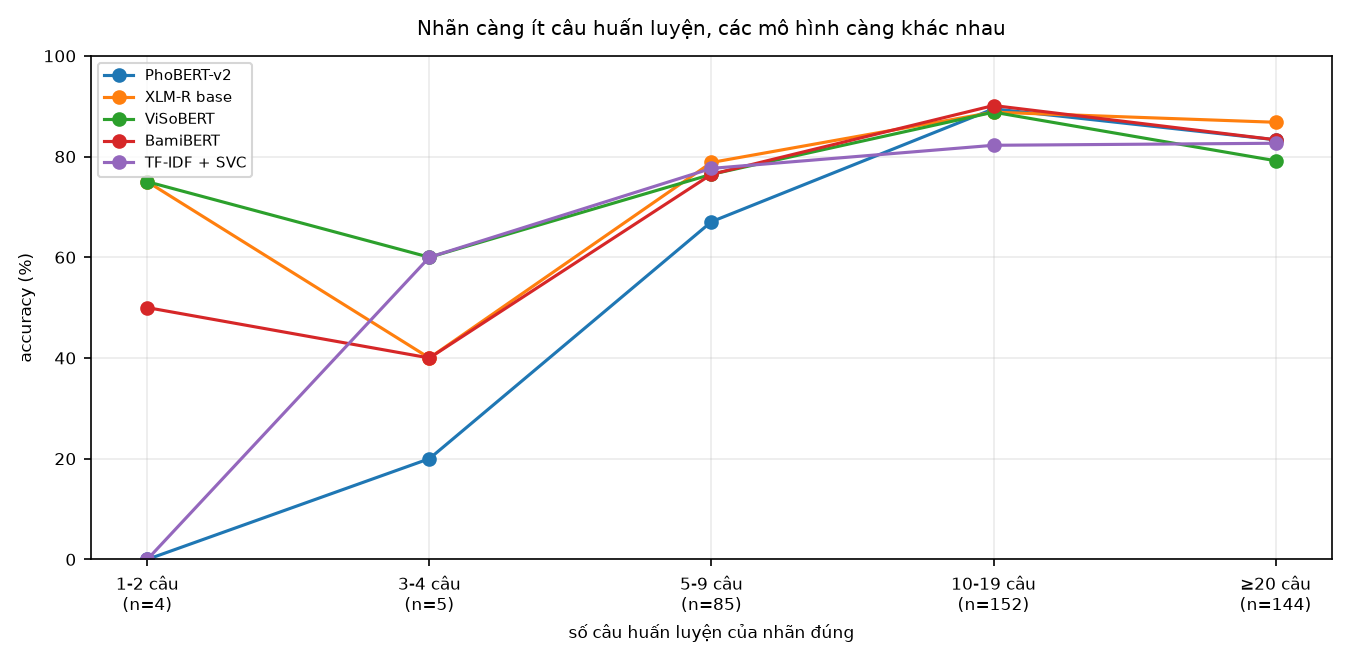
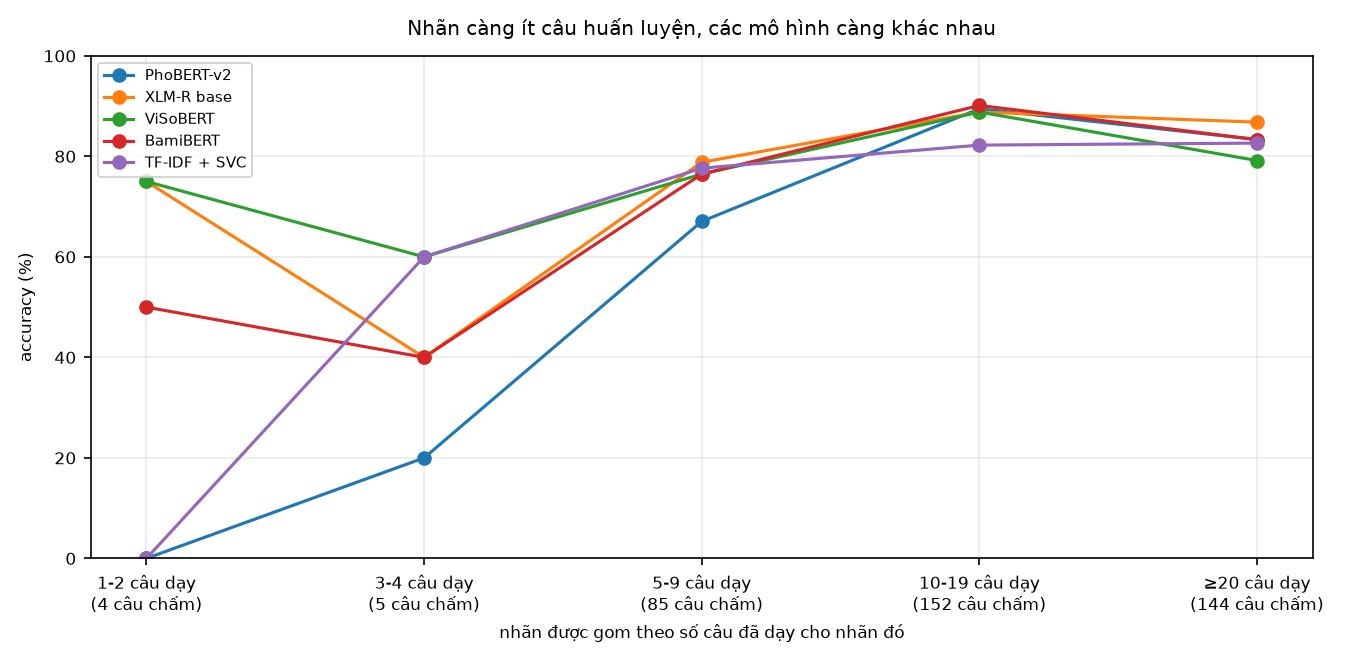
Say what a number means where the number appears
The grading section opened with two tables of definitions and only then showed
results, so a reader had to memorise five grade names and three counts before any
of them were used. Each definition now sits in the row it describes: the line that
reports 78.7% also says what being counted as correct required.

The label-frequency chart labelled its axis "1-2 câu (n=4)". Both halves count
questions, but the first counts questions used to teach a label and the second
counts questions used to score it, and nothing said so. The axis now spells out
both, and the table carries a row giving the second number.

Several paragraphs read like release notes. They now say what the reader should
take away first and give the arithmetic second: that the two leading models cannot
be separated by a table whose spread is smaller than the spread between two
training runs, that the leftmost columns rest on nine questions, and that the
simple baseline beats every neural model on mistyped questions.

En dashes joined the em dashes in becoming hyphens.

diff --git a/src/ontchatbot/research/classifier_report.py b/src/ontchatbot/research/classifier_report.py
@@ -225,8 +225,11 @@ def figures(out_dir: Path, split: str = "test") -> None:
     # Ghi kèm số câu test của từng nhóm: nhóm nhỏ làm đường gãy mạnh, người đọc
     # cần thấy ngay là chênh lệch ở đó dựa trên rất ít câu.
     sizes = next(iter(payload["by_training_count"].values()))
-    ax.set_xticks(xs, [f"{b} câu\n(n={sizes[b][1]})" for b in BUCKETS])
-    ax.set_xlabel("số câu huấn luyện của nhãn đúng")
+    # Trục ngang gom nhãn theo số câu đã DẠY cho nhãn đó; con số trong ngoặc là số
+    # câu CHẤM rơi vào nhóm. Hai thứ đều đếm bằng câu nên phải nói rõ từng cái, nếu
+    # không người đọc tưởng chúng là một.
+    ax.set_xticks(xs, [f"{b} câu dạy\n({sizes[b][1]} câu chấm)" for b in BUCKETS])
+    ax.set_xlabel("nhãn được gom theo số câu đã dạy cho nhãn đó")
     ax.set_ylabel("accuracy (%)")
     ax.set_ylim(0, 100)
     ax.set_title("Nhãn càng ít câu huấn luyện, các mô hình càng khác nhau", pad=10)

diff --git a/README.md b/README.md
@@ -110,7 +110,7 @@ dẫn và đường dẫn đối chiếu.
 | Văn bản gốc đã số hoá | 16 |
 
 Phần chênh lệch 1.354 bộ ba phát sinh do đồ thị khi vận hành bổ sung cặp trích
-dẫn–đường dẫn cho các mục trả lời được.
+dẫn-đường dẫn cho các mục trả lời được.
 
 Nội dung được bóc tách từ 16 văn bản chính thức: sáu quyết định của Hiệu trưởng,
 gồm **Quyết định 1052**, **Quyết định 317**, 626, 729, 753 và 1965; ba quy chế
@@ -233,7 +233,7 @@ Bốn phong cách câu hỏi biểu diễn biến thiên bề mặt của cùng 
 ### 6.1 Năm mô hình đem so
 
 Bốn encoder được fine-tune, tức tiếp tục huấn luyện trên bài toán phân loại hiện
-tại. Baseline TF-IDF + LinearSVC kết hợp TF-IDF (*term frequency–inverse document
+tại. Baseline TF-IDF + LinearSVC kết hợp TF-IDF (*term frequency-inverse document
 frequency*, trọng số phản ánh mức đặc trưng của n-gram) với bộ phân loại tuyến
 tính biên lớn LinearSVC. Baseline không dùng biểu diễn tiền huấn luyện và khai
 thác n-gram ký tự cùng n-gram từ; đặc trưng ký tự phù hợp với câu thiếu dấu và
@@ -302,18 +302,19 @@ Kết quả trên 390 câu `test` với 344 nhãn:
 | PhoBERT-v2 | 80,5% | 74,4% | 79,5% | 75,6% | 78,5% |
 | TF-IDF + LinearSVC | 80,3% | 74,4% | 79,5% | 75,6% | 78,3% |
 
-XLM-R cao hơn baseline 4,8 điểm accuracy và 4,1 điểm F1 macro. Phân tích theo
-tần suất nhãn cho thấy phần lớn chênh lệch xuất hiện ở các nhãn hiếm.
+Bốn mô hình học sâu đều vượt mốc so sánh, và XLM-R hơn mốc đó 4,8 điểm. Phần lớn
+khoảng cách nằm ở những nhãn ít câu dạy, xem ngay mục dưới.
 
-**Không mô hình nào dẫn đầu cả năm cột.** XLM-R cao nhất ở accuracy và F1 weighted;
-BamiBERT cao nhất ở ba chỉ số trung bình theo nhãn. Accuracy đếm theo câu nên nhãn
-nhiều mẫu chiếm ưu thế, còn trung bình theo nhãn cho mỗi nhãn một phiếu bằng nhau;
-hai mô hình này vì thế mạnh ở hai phía khác nhau của phân bố nhãn.
+**Nhưng không mô hình nào dẫn đầu cả năm cột.** XLM-R hơn ở hai cột đầu và cuối,
+BamiBERT hơn ở ba cột giữa. Chuyện này không mâu thuẫn: accuracy đếm theo từng câu
+hỏi nên nhãn nào nhiều câu thì có tiếng nói lớn hơn, còn ba cột giữa lấy trung bình
+theo nhãn nên nhãn nào cũng một phiếu như nhau. Hai mô hình mạnh ở hai phía khác
+nhau của cùng một bộ dữ liệu.
 
-Chênh lệch giữa chúng - lớn nhất 1,5 điểm - **nhỏ hơn mức dao động giữa hai lượt
-huấn luyện đo được ở mục 10**, nên bảng này không đủ để kết luận mô hình nào tốt
-hơn. XLM-R được chọn để triển khai; phép đo không chứng minh lựa chọn đó tốt hơn
-BamiBERT một cách chắc chắn.
+Khoảng cách lớn nhất giữa chúng là 1,5 điểm, mà **huấn luyện lại cùng một mô hình
+trên gần như cùng dữ liệu đã làm điểm xê dịch tới 1,8 điểm** (mục 10). Nói cách
+khác, bảng này chưa đủ để nói mô hình nào hơn mô hình nào. XLM-R là mô hình được
+đem triển khai, nhưng đó là một lựa chọn, không phải một kết luận từ số liệu.
 
 Tách theo phạm vi câu hỏi:
 
@@ -325,38 +326,50 @@ Tách theo phạm vi câu hỏi:
 | PhoBERT-v2 | 81,8% <br><sub>279/341</sub> | 71,4% <br><sub>35/49</sub> | 181 s |
 | TF-IDF + LinearSVC | 82,7% <br><sub>282/341</sub> | 63,3% <br><sub>31/49</sub> | 4 s |
 
-Hai cột phản ánh hai phía của quyết định từ chối và cần được đọc riêng. Nhóm ngoài
-phạm vi chỉ có 49 câu được tạo từ bảy khuôn, nên không đủ để ước lượng chắc chắn
-thứ hạng mô hình theo khả năng từ chối.
+Hai cột này đo hai việc trái ngược nhau nên phải đọc riêng: cột trái là "trả lời
+đúng khi có thể trả lời", cột phải là "biết im lặng khi không nên trả lời". Cột phải
+chỉ dựa trên 49 câu, mà 49 câu đó lại sinh ra từ bảy khuôn câu, nên các biến thể của
+cùng một khuôn không phải bảy phép thử độc lập. Đừng xếp hạng mô hình bằng cột này.
 
-#### Kết quả theo tần suất nhãn
+#### Nhãn được dạy càng ít câu thì càng khó
+
+Không phải nhãn nào cũng được dạy như nhau. Có nhãn xuất hiện trong hai chục câu hỏi
+của tập dạy, có nhãn chỉ một hai câu. Bảng dưới chia 344 nhãn thành năm nhóm theo số
+câu đã dạy cho chúng, rồi xem mỗi mô hình trả lời đúng bao nhiêu phần trăm ở từng nhóm.
 
 ![Độ chính xác theo số câu huấn luyện](docs/images/accuracy-by-frequency.png)
 
-| Mô hình | 1–2 câu | 3–4 câu | 5–9 câu | 10–19 câu | ≥20 câu |
+| Mô hình | Nhãn được dạy 1-2 câu | 3-4 câu | 5-9 câu | 10-19 câu | Từ 20 câu trở lên |
 |---|---:|---:|---:|---:|---:|
+| *Số câu trong tập chấm rơi vào nhóm* | *4* | *5* | *85* | *152* | *144* |
 | XLM-R base | 75% | 40% | 79% | 89% | 87% |
 | BamiBERT | 50% | 40% | 76% | 90% | 83% |
 | ViSoBERT | 75% | 60% | 76% | 89% | 79% |
 | PhoBERT-v2 | 0% | 20% | 67% | 89% | 83% |
 | TF-IDF + LinearSVC | 0% | 60% | 78% | 82% | 83% |
 
-Chênh lệch lớn nhất xuất hiện ở nhóm nhãn có 1–2 mẫu huấn luyện. Có 57/344 nhãn
-dưới năm mẫu huấn luyện, và hai nhóm hiếm nhất chỉ gồm 9 câu `test` cộng lại - một
-câu đổi kết quả làm tỷ lệ của nhóm dịch 20 điểm phần trăm, nên các cột bên trái
-bảng này không dùng để xếp hạng mô hình được.
+Nhìn từ phải sang trái: nhãn nào được dạy nhiều thì cả năm mô hình đều làm tốt và
+gần bằng nhau. Càng sang trái, nhãn càng ít câu dạy, các mô hình càng tách xa nhau.
+
+Nhưng **hai cột trái không dùng để so mô hình được**. Hàng thứ hai của bảng cho biết
+vì sao: cả hai nhóm đó cộng lại chỉ có 9 câu trong tập chấm, nên một câu trả lời khác
+đi là tỷ lệ nhảy 20 điểm phần trăm. Chúng cho thấy một xu hướng, không cho thấy thứ
+hạng. Toàn bộ dữ liệu có 57 trong 344 nhãn được dạy dưới năm câu.
 
 ### 7.2 Diễn biến huấn luyện
 
-Loss là cross-entropy trung bình trên mỗi mẫu. Cross-entropy đo mức phân bố xác
-suất dự đoán lệch khỏi nhãn chuẩn; giá trị thấp hơn biểu thị mức khớp tốt hơn trên
-cùng tập dữ liệu.
+Hình dưới theo dõi "hao hụt" của mô hình qua từng vòng học. Hao hụt là một con số
+đo mức mô hình đoán lệch khỏi đáp án đúng: càng thấp thì đoán càng sát. Đường màu
+nhạt là hao hụt trên chính tập đã dạy, đường đậm là trên tập kiểm định mà mô hình
+chưa từng học. Khi đường thứ nhất tiếp tục xuống mà đường thứ hai dừng lại hoặc đi
+lên, mô hình đang học thuộc lòng thay vì học quy luật.
 
 ![Training loss và validation loss trong 32 epoch](docs/images/loss-curves.png)
 
-Bốn encoder đều chạy 32 epoch. ViSoBERT có training loss thấp nhất nhưng
-validation loss cao nhất ở epoch cuối, trong khi XLM-R có validation loss thấp
-nhất. Baseline không có vòng lặp epoch và được huấn luyện một lần.
+Đó đúng là chuyện xảy ra với ViSoBERT: sau 32 vòng nó có hao hụt trên tập dạy
+thấp nhất trong bốn mô hình, nhưng hao hụt trên tập kiểm định lại cao nhất. XLM-R
+thì ngược lại, giữ hao hụt kiểm định thấp nhất. Mốc so sánh không học theo vòng
+nên không có đường nào trong hình.
 
 ### 7.3 Kết quả theo lĩnh vực
 
@@ -372,9 +385,9 @@ Kết quả của XLM-R trên `test`:
 | Ngoài phạm vi | 77,6% | 49 |
 | Học phí | 72,0% | 25 |
 
-Nhóm Học phí có 25 câu; một lỗi làm thay đổi 4,0 điểm phần trăm, nên so sánh theo
-lĩnh vực cần được diễn giải thận trọng. Nhóm Quy tắc học vụ có 131 câu và đạt
-84,7%, gần accuracy tổng thể.
+Đừng đọc bảng này như một bảng xếp hạng lĩnh vực. Học phí đứng cuối nhưng chỉ có
+25 câu, nên sai thêm một câu là tụt 4 điểm. Chỉ Quy tắc học vụ đủ lớn để tin: 131
+câu, đạt 84,7%, tức gần đúng bằng mức chung của cả tập.
 
 ### 7.4 Kết quả theo cách hỏi
 
@@ -386,87 +399,76 @@ lĩnh vực cần được diễn giải thận trọng. Nhóm Quy tắc học v
 | PhoBERT-v2 | 87,8% | 86,9% | 75,3% | **71,9%** |
 | TF-IDF + LinearSVC | 85,7% | 85,9% | 77,3% | **71,9%** |
 
-Ở cả năm mô hình, accuracy thấp nhất ở nhóm gõ nhiễu; chênh lệch trang trọng–gõ
-nhiễu của XLM-R là 25,1 điểm phần trăm. Ở riêng nhóm gõ nhiễu, baseline đạt 71,9%,
-cao hơn cả bốn bộ mã hoá - nhóm này là chỗ mô hình được tiền huấn luyện không mang
-lại lợi thế.
+Cả năm mô hình đều tệ nhất ở nhóm gõ nhiễu, và với XLM-R khoảng cách giữa câu
+trang trọng và câu gõ vội lên tới 25 điểm. Đáng chú ý hơn: ở riêng nhóm này, mốc so
+sánh đơn giản lại nhỉnh hơn cả bốn mô hình học sâu. Việc học trước trên khối văn bản
+lớn không giúp được gì khi chữ bị viết sai và mất dấu.
 
 ### 7.5 Độ chính xác câu trả lời `end-to-end`
 
 Mục 7.1 là **phép đo từng phần**: nó chỉ chấm tầng chọn nhãn. Phép đo dưới đây chạy
 hết cả đường - rút từ khoá, tra cứu đồ thị, rồi LLM đọc dữ liệu và viết câu trả lời.
-Hai con số vì thế không so trực tiếp với nhau được, và accuracy chọn nhãn cao không
-bảo đảm câu trả lời cuối cùng đúng.
+Hai con số vì thế không so trực tiếp với nhau được, và chọn đúng nhãn không bảo đảm
+câu trả lời cuối cùng đúng.
 
-#### Bộ đo gồm hai loại câu hỏi, phải đọc riêng
+#### Bộ đo có hai loại câu hỏi, và phải đọc riêng
 
-| Loại | Số câu | Hành vi ĐÚNG là gì |
-|---|---:|---|
-| Trong phạm vi | 61 | đưa ra được thứ được hỏi |
-| Không trả lời được | 24 | **từ chối** |
+85 câu hỏi chia làm hai loại. Với **61 câu trong phạm vi**, làm tốt nghĩa là đưa ra
+được thứ người ta hỏi. Với **24 câu còn lại** - 14 câu ngoài phạm vi và 10 câu hỏi
+đúng vào chỗ ontology không lưu - làm tốt nghĩa là **từ chối**; trả lời được chúng
+tức là hệ thống đã bịa ra thứ dữ liệu không hề nói.
 
-Nhóm thứ hai gồm 14 câu ngoài phạm vi và 10 câu hỏi vào chỗ ontology không lưu. Với
-chúng, trả lời được nghĩa là hệ thống đã suy diễn ra thứ dữ liệu không nói. Nếu gộp
-cả 85 câu vào một mẫu số thì mỗi lần hệ thống từ chối đúng, tỷ lệ "đúng" lại giảm -
-chỉ số càng tốt bảng càng xấu. Vì vậy hai nhóm được báo cáo tách hẳn.
+Đây là lý do hai nhóm không được cộng chung. Gộp cả 85 câu vào một mẫu số thì mỗi
+lần hệ thống từ chối đúng một câu, tỷ lệ "đúng" lại tụt xuống - hệ thống càng cư xử
+đúng, bảng điểm càng xấu.
 
-#### Chấm bằng hai lớp độc lập
+#### 61 câu trong phạm vi
 
-Lớp thứ nhất đếm bằng máy, không cần đọc hiểu câu trả lời:
+Ba phép đếm chạy tự động, không cần ai đọc câu trả lời:
 
-| Tiêu chí | Nghĩa là gì |
-|---|---|
-| Gọi công cụ | trợ lý có tra cứu trước khi trả lời không |
-| Lấy đúng mục | trong các mục lấy về từ đồ thị, có mục mà câu hỏi nhắm tới không |
-| Bám dữ liệu | mọi con số và tên viết tắt trong câu trả lời có mặt trong dữ liệu vừa tra không |
-
-Lớp thứ hai do một mô hình ngôn ngữ lớn đọc cả câu hỏi, dữ liệu và câu trả lời, rồi
-xếp vào đúng một mức:
-
-| Mức | Nghĩa là gì |
-|---|---|
-| đúng | đưa ra được thứ được hỏi, và mọi dữ kiện nêu ra đều có trong dữ liệu |
-| thiếu | đưa ra được một phần; phần đã đưa thì đúng |
-| từ chối | không đưa ra được, và nói rõ là dữ liệu không có |
-| lạc đề | không đưa ra được, và cũng không nói là thiếu |
-| sai | có dữ kiện sai, hoặc suy ra quan hệ mà dữ liệu chỉ nêu hai dữ kiện rời |
-
-#### Kết quả trên 61 câu trong phạm vi
-
-| Phép đếm tất định | Tỷ lệ | Số câu |
+| Đếm gì | Tỷ lệ | Số câu |
 |---|---:|---:|
-| Gọi công cụ trước khi trả lời | 93,4% | 57/61 |
-| Lấy đúng mục | 78,7% | 48/61 |
-| Bám dữ liệu | 96,7% | 59/61 |
-| **Lấy đúng mục và bám dữ liệu cùng lúc** | **77,0%** | **47/61** |
+| Trợ lý có tra cứu trước khi trả lời không | 93,4% | 57/61 |
+| Trong các mục lấy về từ đồ thị, có mục mà câu hỏi nhắm tới không | 78,7% | 48/61 |
+| Mọi con số và tên viết tắt trong câu trả lời đều có trong dữ liệu vừa tra chứ | 96,7% | 59/61 |
+| **Vừa lấy đúng mục, vừa không nêu gì ngoài dữ liệu** | **77,0%** | **47/61** |
 
-| Mức do máy chấm | Tỷ lệ | Số câu |
+Ba phép đếm trên không đọc được câu trả lời có thật sự trả lời câu hỏi hay không.
+Phần đó do một mô hình ngôn ngữ lớn chấm, sau khi đọc cả câu hỏi, dữ liệu công cụ
+trả về và câu trả lời:
+
+| Mô hình chấm | Tỷ lệ | Số câu |
 |---|---:|---:|
-| **đúng** | **78,7%** | **48/61** |
-| từ chối | 18,0% | 11/61 |
-| thiếu | 3,3% | 2/61 |
-| sai, lạc đề | 0% | 0/61 |
+| **đúng** - đưa ra được thứ được hỏi, và mọi dữ kiện nêu ra đều có trong dữ liệu | **78,7%** | **48/61** |
+| *từ chối* - không đưa ra được, nhưng có nói rõ là dữ liệu không có | 18,0% | 11/61 |
+| *thiếu* - đưa ra được một phần, phần đã đưa thì đúng | 3,3% | 2/61 |
+| *sai* - nêu dữ kiện sai, hoặc nối hai dữ kiện rời thành một quan hệ dữ liệu không nói | 0% | 0/61 |
+| *lạc đề* - không đưa ra được, mà cũng không nói là thiếu | 0% | 0/61 |
 
-#### Kết quả trên 24 câu không trả lời được
+#### 24 câu lẽ ra phải từ chối
 
-| Mức do máy chấm | Tỷ lệ | Số câu |
+| Mô hình chấm | Tỷ lệ | Số câu |
 |---|---:|---:|
-| **từ chối** (đúng như mong đợi) | **87,5%** | **21/24** |
-| đúng (tức đã trả lời khi lẽ ra phải từ chối) | 12,5% | 3/24 |
+| **từ chối** - đúng như mong đợi | **87,5%** | **21/24** |
+| *đúng* - tức là đã trả lời, trong khi lẽ ra phải từ chối | 12,5% | 3/24 |
 
-Ba câu bị trả lời đều cùng một dạng: câu hỏi nhắm vào một thực thể có thật nhưng hỏi
-một thuộc tính ontology không lưu, và câu trả lời được ghép từ hai dữ kiện rời.
+Ba câu bị trả lời đều giống nhau một kiểu: người hỏi nhắc tới một thứ có thật trong
+đồ thị, nhưng hỏi một thuộc tính mà ontology không lưu, và trợ lý ghép hai dữ kiện
+rời lại thành câu trả lời.
 
-#### Độ tin cậy của phép chấm
+#### Con số này đáng tin tới đâu
 
-Người chấm là máy, không phải người. Mỗi phán quyết được đối chiếu với ba phép đếm
-tất định của cùng bản ghi, và **6/85 phán quyết mâu thuẫn** với chúng. Chín trường
-hợp trải đều các mức đã được kiểm bằng tay; cả chín đều khớp với phán quyết của máy.
-Dù vậy con số này vẫn cần đối chứng bằng chấm người trước khi dùng làm kết luận.
+Người chấm là máy chứ không phải người, nên nó được soi lại bằng chính ba phép đếm
+tự động ở trên: câu nào lấy đúng mục, có dữ liệu, không bịa số mà vẫn bị chấm là từ
+chối thì chắc chắn một trong hai bên sai. **6 trên 85 phán quyết vướng mâu thuẫn
+kiểu đó.** Chín trường hợp trải đều các mức đã được đọc bằng tay, và cả chín lần
+máy chấm đều đúng. Dù vậy, chưa có ai chấm song song để đối chứng, nên con số này
+nên đọc như một ước lượng.
 
-Một phép dò yếu hơn chạy song song, tìm cụm từ chối trong câu trả lời: nó bắt được
-7/14 câu ngoài phạm vi và 9/10 câu chạm khoảng trống. Nó chỉ nhận ra những cách nói
-đã liệt kê sẵn nên thấp hơn phép chấm đọc cả câu, vốn cho 12/14 ở cùng nhóm.
+Có thêm một phép dò đơn giản chạy song song, chỉ tìm xem câu trả lời có chứa cụm
+kiểu "không tìm thấy", "dữ liệu không có" hay không. Nó bắt được 7 trên 14 câu ngoài
+phạm vi và 9 trên 10 câu chạm khoảng trống. Nó thấp hơn phép chấm đọc cả câu, vốn
+cho 12 trên 14 ở cùng nhóm, đơn giản vì nó chỉ nhận ra những cách nói đã liệt kê sẵn.
 
 ### 7.6 Thời gian phản hồi
 
@@ -593,8 +595,8 @@ xuống 17%. Hệ quả là truy vấn ở cấp Điểm có thể trả về to
 
 **Chênh lệch nhỏ giữa các bộ mã hoá không đọc được thành khác biệt thật.** Bốn bộ
 mã hoá được huấn luyện hai lượt trên hai bản `train` chênh nhau 5 dòng, tức 0,09%.
-Mỗi mô hình đổi dự đoán ở 28–42 trong 390 câu `test` (7–11%), trong khi accuracy chỉ
-xê dịch 0,8–1,8 điểm phần trăm vì các lỗi mới và lỗi được sửa gần bù nhau. Baseline
+Mỗi mô hình đổi dự đoán ở 28-42 trong 390 câu `test` (7-11%), trong khi accuracy chỉ
+xê dịch 0,8-1,8 điểm phần trăm vì các lỗi mới và lỗi được sửa gần bù nhau. Baseline
 đếm tần suất cụm ký tự đổi 0 câu ở cùng phép thử, nên mức xê dịch này đến từ quá
 trình huấn luyện chứ không từ năm dòng dữ liệu.
 
